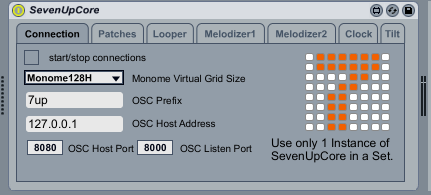
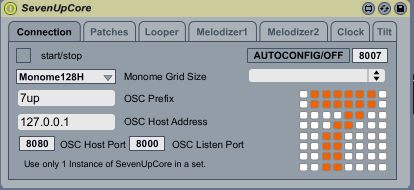
-minor updates

diff --git a/doc/index.htm b/doc/index.htm
@@ -201,7 +201,7 @@ padding-right:10px;
 #leftColumn
 {
 	width:220px;
-	height:15500px;
+	height:16500px;
 	float:left;
 	clear:left;
 	background-color:#e0e5da;
@@ -360,7 +360,7 @@ With it, your monome is fully integrated into your Live workflow, allowing you t
 </p>
 <p class="separate"><a href="http://vimeo.com/1860696">Check</a> <a href="http://vimeo.com/1854975">out</a> <a href="http://vimeo.com/6780585">some</a> <a href="http://vimeo.com/7042276">videos</a> to <a href="http://www.vimeo.com/6187026">see</a> what you can do with SevenUp.</p>
     <p class="separate">If you&#39;re looking for SevenUp 1.0 which launched as a separate 
-        Java application, you can find it <a href="sevenup1.htm">here</a>.</p>
+        Java application and does not require MaxForLive, you can find it <a href="sevenup1.htm">here</a>.</p>
 <a id="requirements"></a>
 <h1>Requirements</h1>
 <p>
@@ -386,6 +386,13 @@ In order to use SevenUp Live you'll need:
     <li>For Mac this will be /Applications/Max5/Cycling '74/java/lib</li>
     </ul>
     </li>
+    <li>Download&nbsp;and install the <a href="http://recherche.ircam.fr/equipes/temps-reel/movement/muller/index.php?entry=entry060616-173626">oscbonjour max external</a> in order to enable the <a href="#advancedconcepts">auto-configure feature</a> 
+    <ul>
+    <li>For Windows this should be copied to C:\Program Files\Cycling '74\Max 5.0\Cycling '74\max-externals</li>
+    <li>For Mac this should be copied to /Applications/Max5/Cycling\ \'74/max-externals</li>
+    </ul>
+    </li>
+        
     <li>Install the included Live pack &quot;SevenUp 2.0.X Template.alp&quot; by opening Ableton 
         Live and choosing &quot;Install Live Pack...&quot; from the file menu.&nbsp; </li>
     <li>Open the newly installed project, SevenUp 2.0.X Template.als, navigate to File -&gt; 
@@ -1132,7 +1139,7 @@ In order to use SevenUp Live you'll need:
      <a id="advancedconcepts"></a>
     <h1>Advanced Concepts</h1>
     <h2>Auto-configuration</h2>
-    <p>Starting with version 2.0.4, SevenUp may be placed in auto-configuration mode which uses Apple's Bonjour protocol in order to establish a connection with <a href="http://post.monome.org/comments.php?DiscussionID=6464">MonoRoute</a>.  This negates the need to select an OSC prefix or port numbers and allows for multiple monome applications to be used through 1 instance of monomeserial.  In order to use auto-configuration:
+    <p>Starting with version 2.0.4, SevenUp may be placed in auto-configuration mode which uses Apple's Bonjour protocol in order to establish a connection with any Monome routing software that has implementing the monome <a href="http://docs.monome.org/doku.php?id=tech:autoconfig">autoconfig protocol</a> such as <a href="http://post.monome.org/comments.php?DiscussionID=6464">MonoRoute</a>.  This negates the need to select an OSC prefix or port numbers and allows for multiple monome applications to be used through 1 instance of monomeserial.  In order to use auto-configuration:
     </p>
     <ol>
     <li>Start Monome serial</li>
